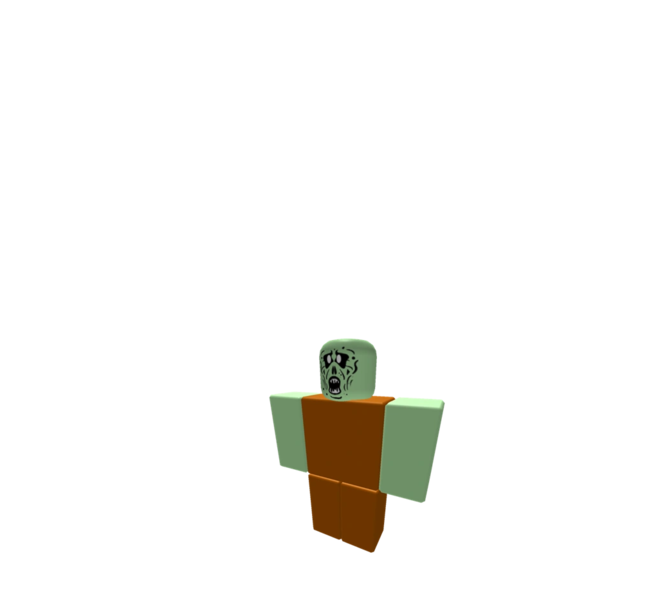
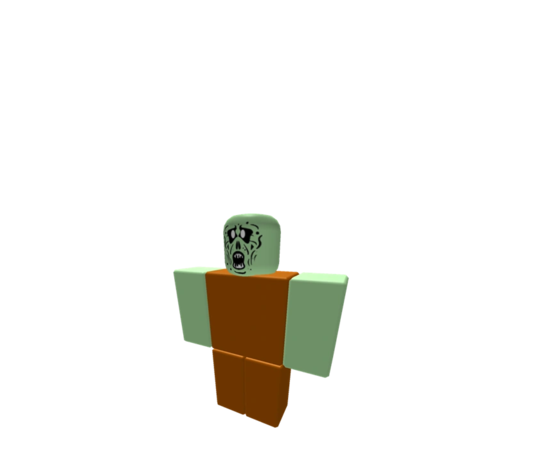
functionality added and background

Changed region(s): [[0.3047, 0.4497, 0.7007, 0.9293]]

diff --git a/Game_CR/main.cpp b/Game_CR/main.cpp
@@ -14,8 +14,14 @@ public:
 		//std::cout << "Omega running." << std::endl;
 		Draw(0, 0, background);
 
-		Draw(player);
-		Draw(enemy);
+		Draw(player1);
+		Draw(player2);
+
+		check_collision();
+
+		if (collided == true) {
+			handle_collision();
+		}
 
 		//Draw(0, 500, mPic);
 	}
@@ -24,32 +30,48 @@ public:
 	
 	void OnKeyPress(const omg::KeyPressed& e) {
 
-		if (e.GetKeyCode() == OMEGA_KEY_RIGHT) {
-			x += 50;
-			player.UpdateXCoord(50);
-		}
+		if (e.GetKeyCode() == OMEGA_KEY_RIGHT)
+			player1.UpdateXCoord( player1_speed);
 		else if (e.GetKeyCode() == OMEGA_KEY_LEFT)
-			//x -= 50;
-			player.UpdateXCoord(-50);
+			player1.UpdateXCoord( 0 - player1_speed );
 		else if (e.GetKeyCode() == OMEGA_KEY_UP)
-			player.UpdateYCoord(50);
-			//y += 50;
+			player1.UpdateYCoord( player1_speed );
 		else if (e.GetKeyCode() == OMEGA_KEY_DOWN)
-			player.UpdateYCoord(-50);
-			//y -= 50;
+			player1.UpdateYCoord( 0 - player1_speed );
 		else if (e.GetKeyCode() == OMEGA_KEY_D)
-			//x -= 50;
-			enemy.UpdateXCoord(50);
+			player2.UpdateXCoord( player2_speed );
 		else if (e.GetKeyCode() == OMEGA_KEY_A)
-			//x -= 50;
-			enemy.UpdateXCoord(-50);
+			player2.UpdateXCoord( 0 - player2_speed );
 		else if (e.GetKeyCode() == OMEGA_KEY_W)
-			enemy.UpdateYCoord(50);
-		//y += 50;
+			player2.UpdateYCoord( player2_speed );
 		else if (e.GetKeyCode() == OMEGA_KEY_S)
-			enemy.UpdateYCoord(-50);;
-		//y -= 50;
+			player2.UpdateYCoord( 0 - player2_speed );;
 		
+	}
+
+	/* function that will check whether player has collided with player2*/
+	void check_collision() {
+		if ((std::abs(player1.GetXCoord() - player2.GetXCoord()) <= 40 ) 
+			&& (std::abs(player1.GetYCoord() - player2.GetYCoord()) <= 40 )) {
+			collided = true;
+		}
+	}
+
+	/* if both players collided, draw the end game screen and the game/program will then end in a couple seconds */
+	void handle_collision() {
+
+		secondIteration++;
+
+		Draw(0, 0, gameOver);
+
+		if (secondIteration == 2) {
+			std::chrono::seconds wait( 2 );
+			std::this_thread::sleep_for( wait );
+			mShouldContinue = false;
+		}
+
+		std::chrono::microseconds wait( 500000 );
+		std::this_thread::sleep_for(wait);
 	}
 	
 	
@@ -57,8 +79,13 @@ public:
 private:
 	omg::Picture mPic{ "../Assets/Pictures/zombiee.png" };
 	omg::Picture background{"../Assets/Pictures/background.png" };
-	omg::Unit player{ "../Assets/Pictures/test2.png", 0, 500 };
-	omg::Unit enemy { "../Assets/Pictures/zombiee.png",0, 500 };
+	omg::Picture gameOver{ "../Assets/Pictures/gameover2.png" };
+	omg::Unit player1{ "../Assets/Pictures/character.png", 0, 0 };
+	omg::Unit player2 { "../Assets/Pictures/zombiee.png",0, 500 };
+	bool collided = false; /* storing whether player has collided with player 2 (zombie) */
+	int secondIteration = 0; /* tracking if game over image fully loaded */
+	int player1_speed = 55;
+	int player2_speed = 30;
 
 	int x{ 100 };
 	int y{ 100 };
